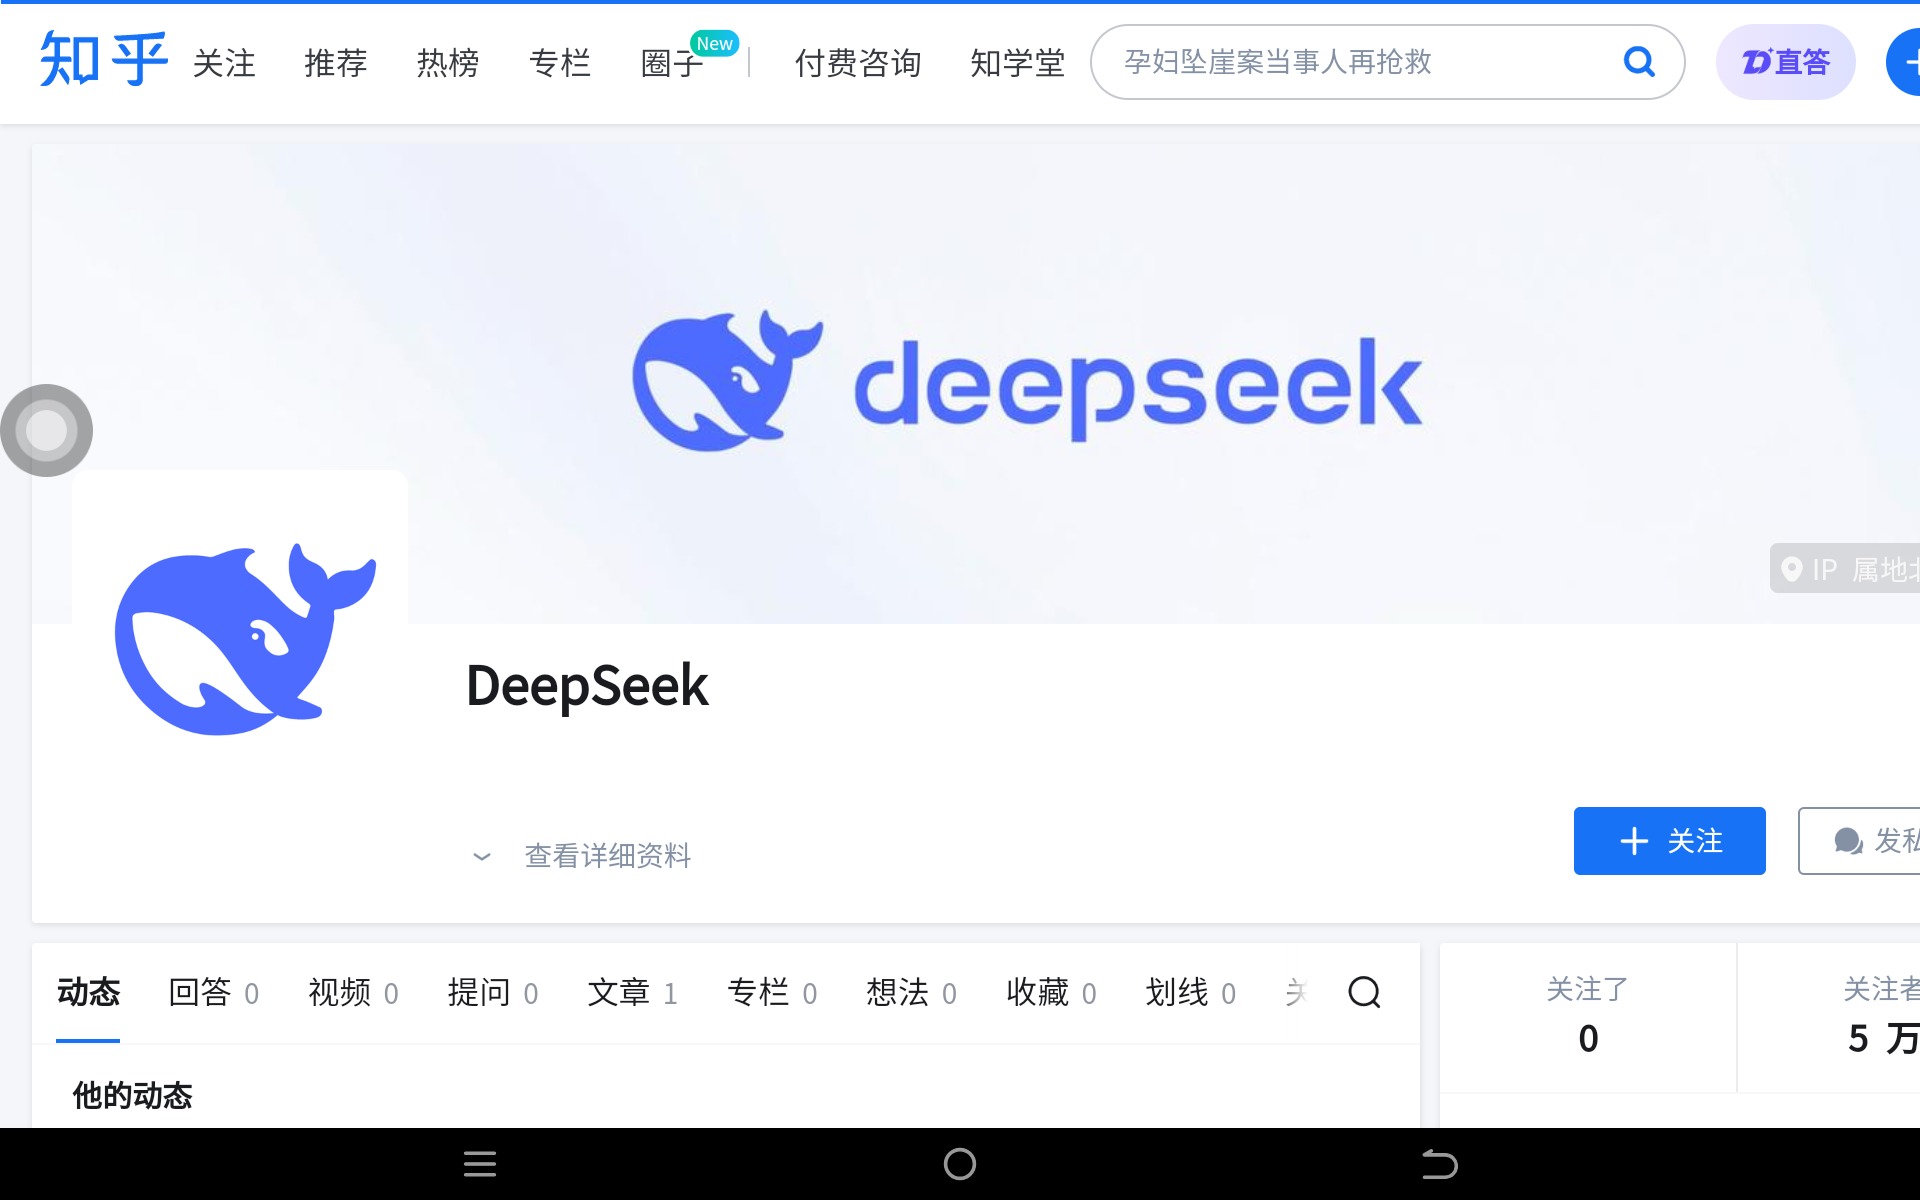
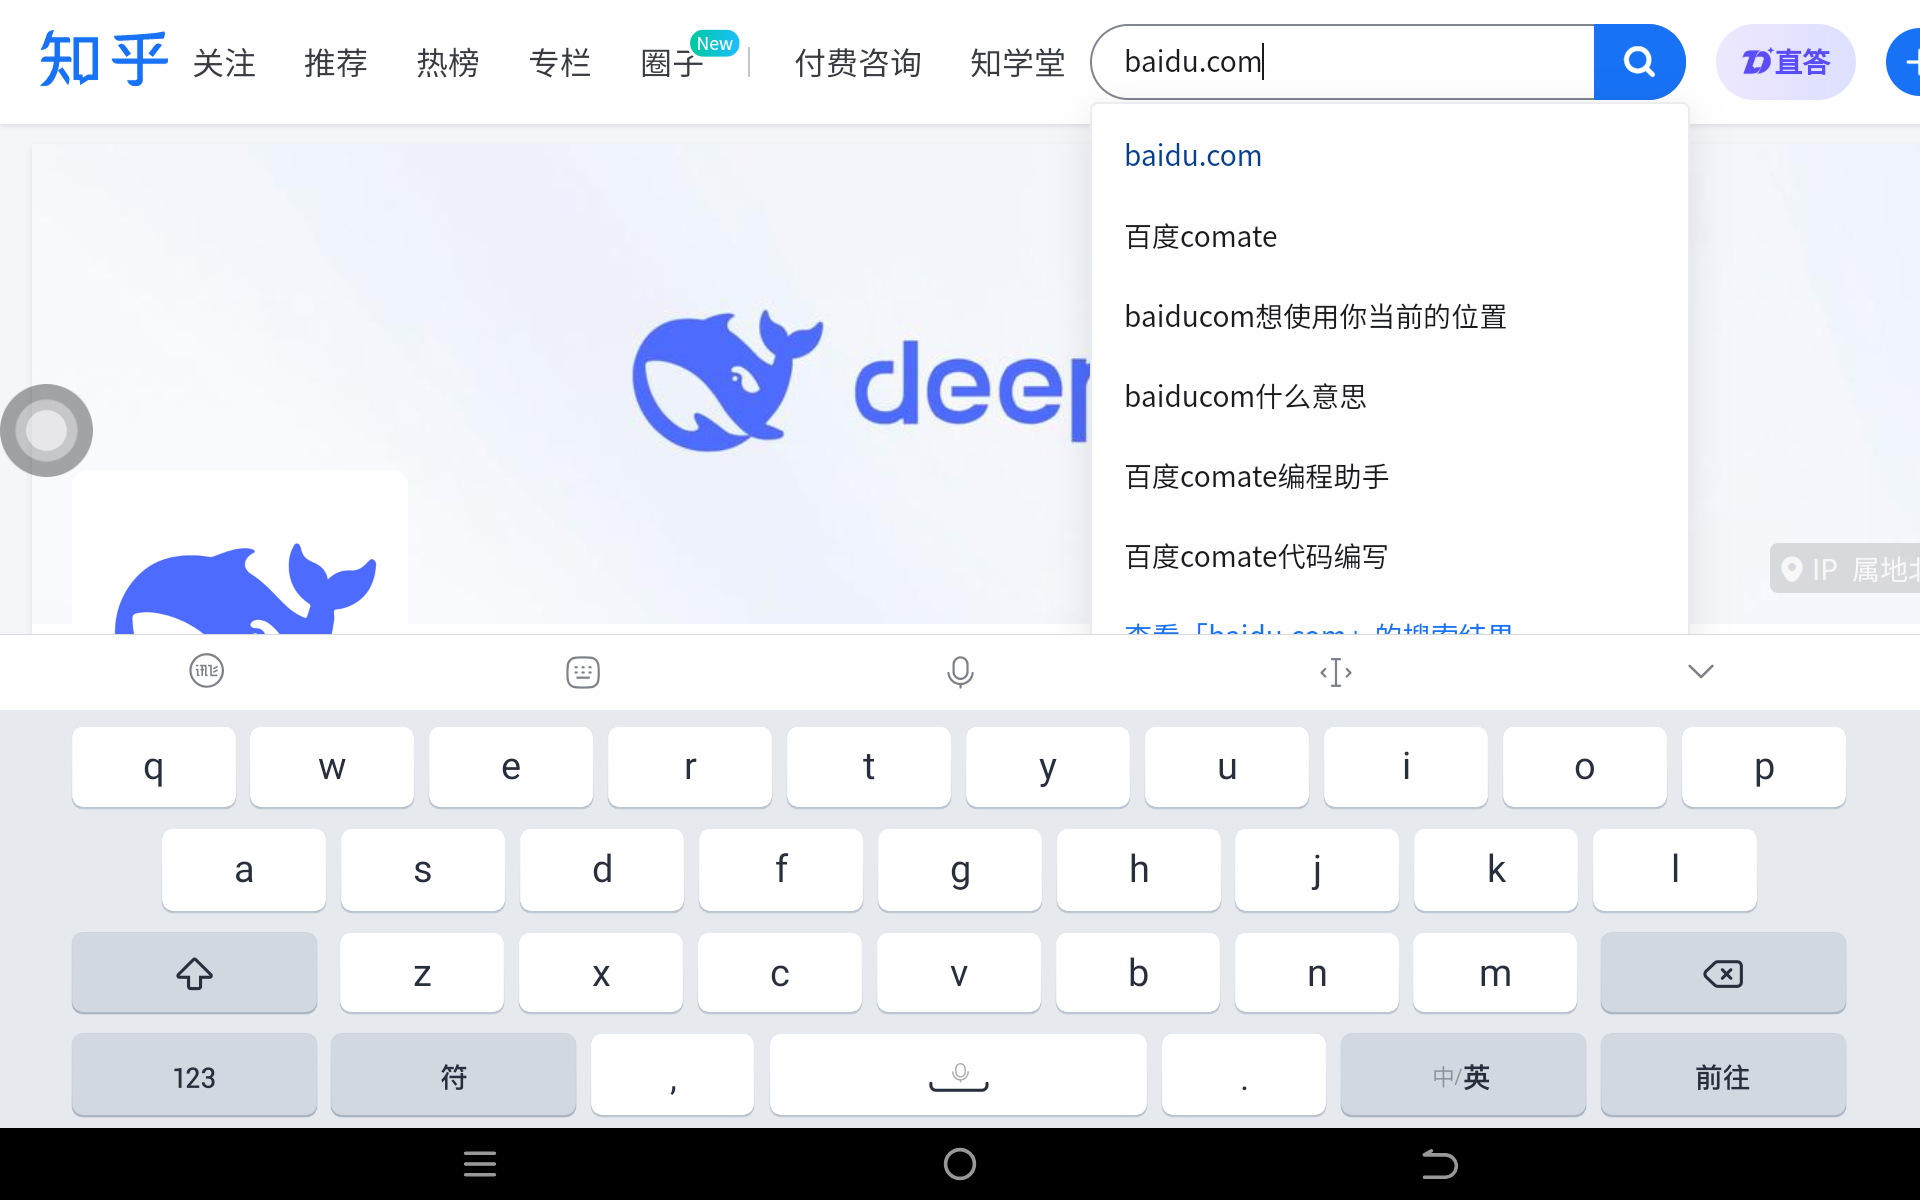
complete

diff --git a/sources/secret.tex b/sources/secret.tex
@@ -33,12 +33,33 @@
     \end{minipage}
 \end{figure}
 
-进去之后，滑到最底下，可以看到有一个知乎的图标，点开它即可跳转到知乎（\cref{fig:toZhihu}）。进入知乎，登录你的账号（一般来说是不用验证码的），然后进行搜索，输入\url{baidu.com}，点击第一个结果
+进去之后，滑到最底下，可以看到有一个知乎的图标，点开它即可跳转到知乎（\cref{fig:toZhihu}）。进入知乎，登录你的账号（一般来说是不用验证码的），然后进行搜索，输入\url{baidu.com}，点击第一个结果，然后就可以去到百度了（呜呜呜～终于好了）。
 
 \begin{figure}[ht]
     \centering
     \includegraphics[width=0.8\textwidth]{toBaidu/4}
     \caption{跳转到知乎}
     \label{fig:toZhihu}
+\end{figure}
+\begin{figure}[ht]
+    \centering
+    \includegraphics[width=0.8\textwidth]{toBaidu/5}
+    \caption{搜索百度}
+    \label{fig:searchBaidu}
+\end{figure}
+\begin{figure}[ht]
+    \centering
+    \includegraphics[width=0.8\textwidth]{toBaidu/6}
+    \caption{进入第一个结果}
+    \label{fig:firstResult}
+\end{figure}
+
+顺带提一嘴，如果上了广雅应用，你想要导出你的平板拍的视频，你可以搜索\url{pan.moe}进入萌盘，登录你提前在家注册好的账号，就能上传视频了（\cref{fig:moePan}）。
+
+\begin{figure}[ht]
+    \centering
+    \includegraphics[width=0.8\textwidth]{toBaidu/7}
+    \caption{搜索萌盘}
+    \label{fig:moePan}
 \end{figure}
 
